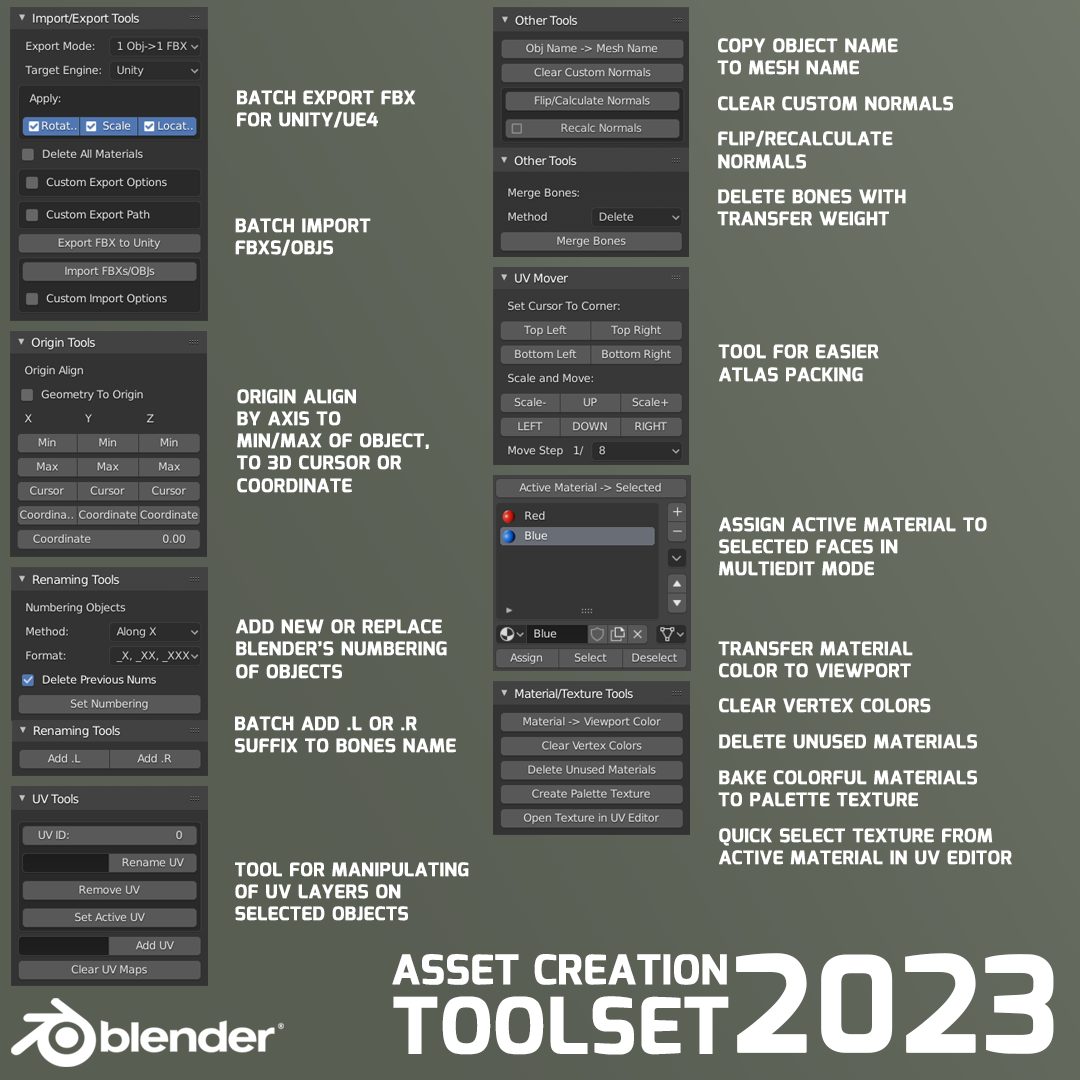
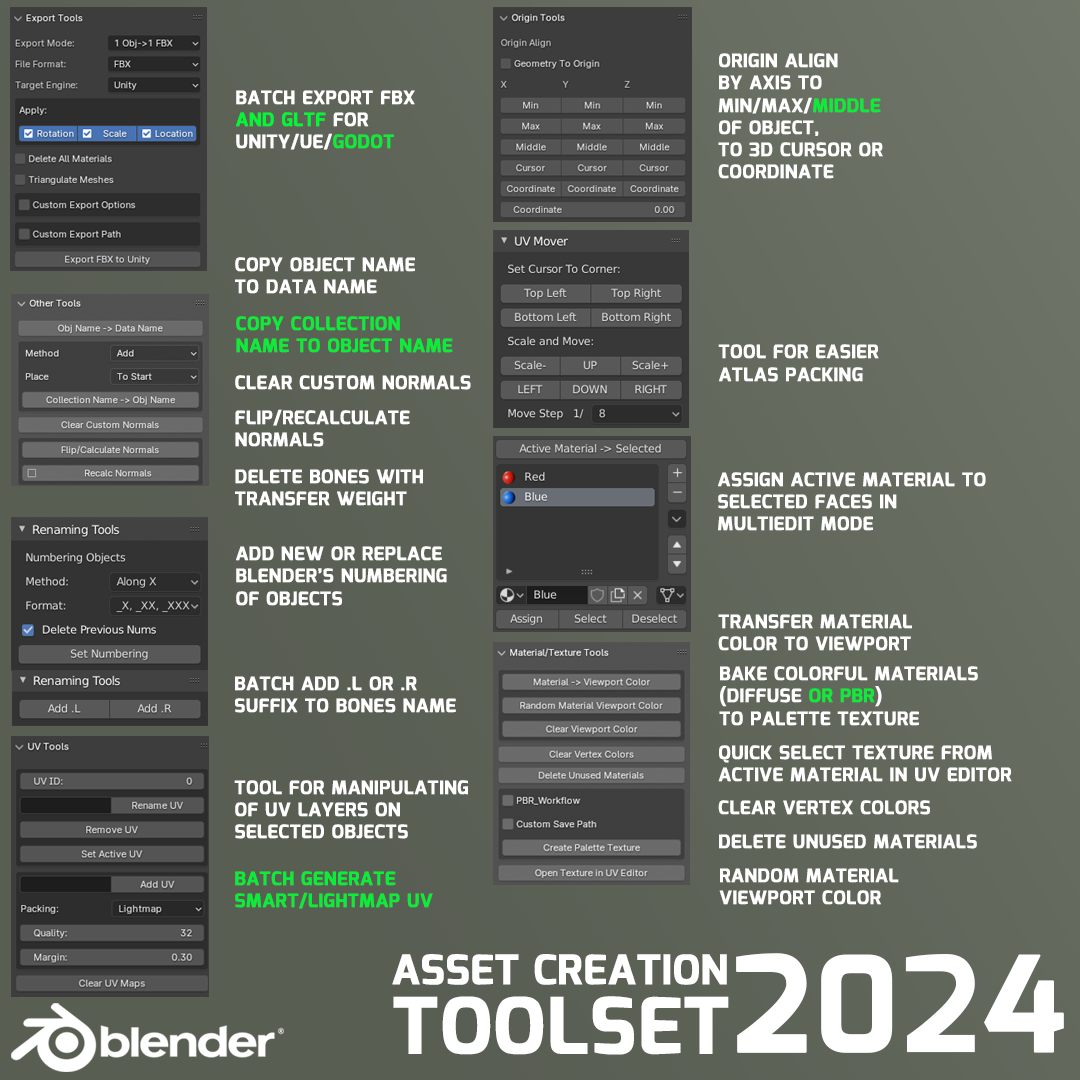
Release 2024.1

Changed region(s): [[0.0, 0.0, 0.9472, 1.0], [0.2139, 0.0917, 0.3667, 0.1528], [0.8861, 0.8861, 1.0, 0.9778]]

diff --git a/Asset_Creation_Toolset_2024_1_Bl410/import_export_tools.py b/Asset_Creation_Toolset_2024_1_Bl410/import_export_tools.py
@@ -571,7 +571,7 @@ class Open_Export_Dir(bpy.types.Operator):
 
 # Import Export UI Panel
 class VIEW3D_PT_Import_Export_Tools_Panel(bpy.types.Panel):
-	bl_label = "Import/Export Tools"
+	bl_label = "Export Tools"
 	bl_space_type = "VIEW_3D"
 	bl_region_type = "UI"
 	bl_category = "ACT"

diff --git a/README.md b/README.md
@@ -4,10 +4,11 @@
 
 **[Russian README](/README_ru.md)**
 
-**Asset Creation Toolset** is Many Tools for Game Asset Creation (Batch Import/Export FBXs, Origin Aligment Tool, Renaming, Low-Poly Art workflow tools, etc.) for Blender 2.79, 2.8-3.6, 4.0 (and higher).
+**Asset Creation Toolset** is Many Tools for Game Asset Creation (Batch Export FBXs/GLTF for Unity/UE/Godot, Origin Aligment Tool, Renaming, Low-Poly Art workflow tools, etc.) for Blender 2.79, 2.8-3.6, 4.0 (and higher).
 
 ***Download latest version:***
 
+* ***[(2024.1) Blender 4.1 and higher](https://github.com/mrven/Blender-Asset-Creation-Toolset/raw/master/Releases/Asset_Creation_Toolset_2024_1_Bl410.zip)***
 * ***[(2023.2) Blender 4.0 and higher](https://github.com/mrven/Blender-Asset-Creation-Toolset/raw/master/Releases/Asset_Creation_Toolset_2023_2_Bl400.zip)***
 * ***[(2023.1) Blender 3.6 and higher](https://github.com/mrven/Blender-Asset-Creation-Toolset/raw/master/Releases/Asset_Creation_Toolset_2023_1_Bl361.zip)***
 * ***[ACT Unity Editor Script (for 2023.1 and higher)](https://github.com/mrven/Blender-Asset-Creation-Toolset/raw/master/Unity_Plugin/Releases/ACT_2023_1_Unity_Plugin.unitypackage)***
@@ -23,6 +24,15 @@ If you want to support me you can buy this addon:
 
 
 ***[Watch Features Overview (Youtube Playlist)](https://www.youtube.com/playlist?list=PLmXnsUZu0CRr_UOQp3TapOVyEqbzZ0MkL)***
+
+## New in Asset Creation Toolset 2024
+### New GLTF Export for GODOT
+![GLTF_Export](/images/pngs/2024/01_GLTF_Export.png)
+
+### "Add UV" has option for generating Smart UV or Lightmap UV
+![Add_UV_Packing](/images/pngs/2024/02_Add_UV_Packing.png)
+
+### Export FBX now supports Custom Properties
 
 ## New in Asset Creation Toolset 2023
 ### New Export Algorithm for Unity (Fix Flip orientation, Linked Objects Support, Animation Support)

diff --git a/README_ru.md b/README_ru.md
@@ -8,6 +8,7 @@
 
 ***Скачать последнюю версию:***
 
+* ***[(2024.1) Blender 4.1 и выше](https://github.com/mrven/Blender-Asset-Creation-Toolset/raw/master/Releases/Asset_Creation_Toolset_2024_1_Bl410.zip)***
 * ***[(2023.2) Blender 4.0 и выше](https://github.com/mrven/Blender-Asset-Creation-Toolset/raw/master/Releases/Asset_Creation_Toolset_2023_2_Bl400.zip)***
 * ***[(2023.1) Blender 3.6 и выше](https://github.com/mrven/Blender-Asset-Creation-Toolset/raw/master/Releases/Asset_Creation_Toolset_2023_1_Bl361.zip)***
 * ***[ACT Unity Editor Скрипт (для 2023.1 и выше)](https://github.com/mrven/Blender-Asset-Creation-Toolset/raw/master/Unity_Plugin/Releases/ACT_2023_1_Unity_Plugin.unitypackage)***
@@ -22,6 +23,15 @@
 * ***[Gumroad (Свободная цена)](https://gumroad.com/l/hPXIh)***
 
 ***[Смотреть обзор всех функций (плейлист Youtube)](https://www.youtube.com/playlist?list=PLmXnsUZu0CRr_UOQp3TapOVyEqbzZ0MkL)***
+
+## Новое в версии Asset Creation Toolset 2024
+### Новый экспортёр GLTF для GODOT
+![GLTF_Export](/images/pngs/2024/01_GLTF_Export.png)
+
+### "Add UV" может генерировать Smart UV или Lightmap UV
+![Add_UV_Packing](/images/pngs/2024/02_Add_UV_Packing.png)
+
+### Export FBX теперь поддерживает экспорт Custom Properties
 
 ## Новое в версии Asset Creation Toolset 2023
 ### Новый алгоритм экспорта в Unity (Исправленная ориентация моделей, поддержка Linked Objects, Поддержка анимации)
